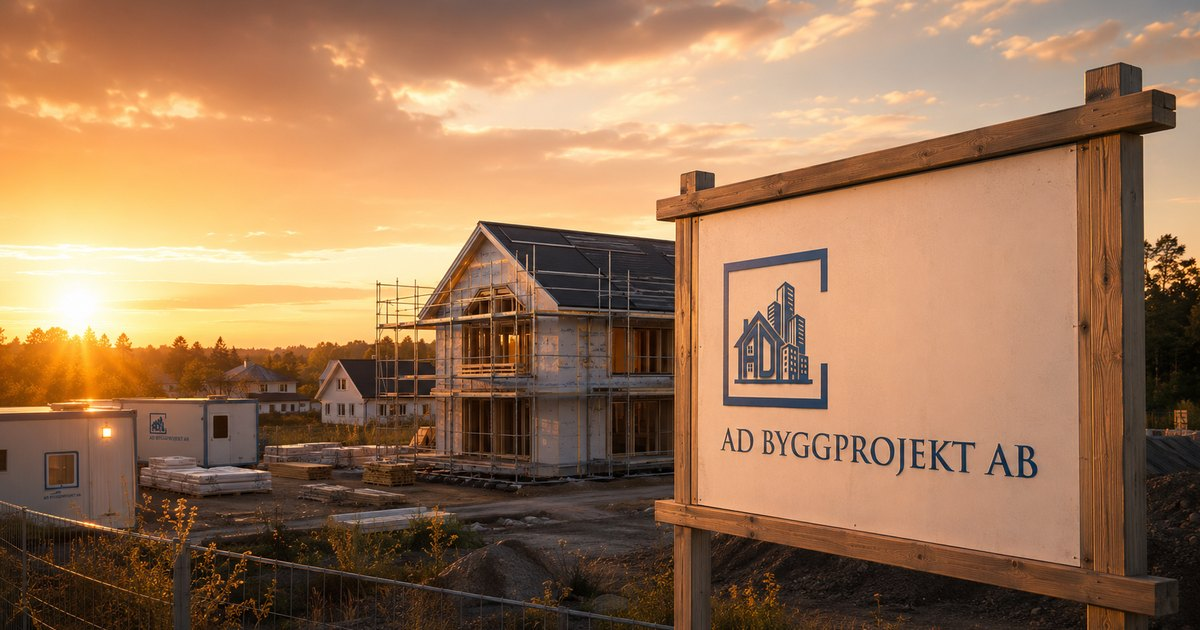
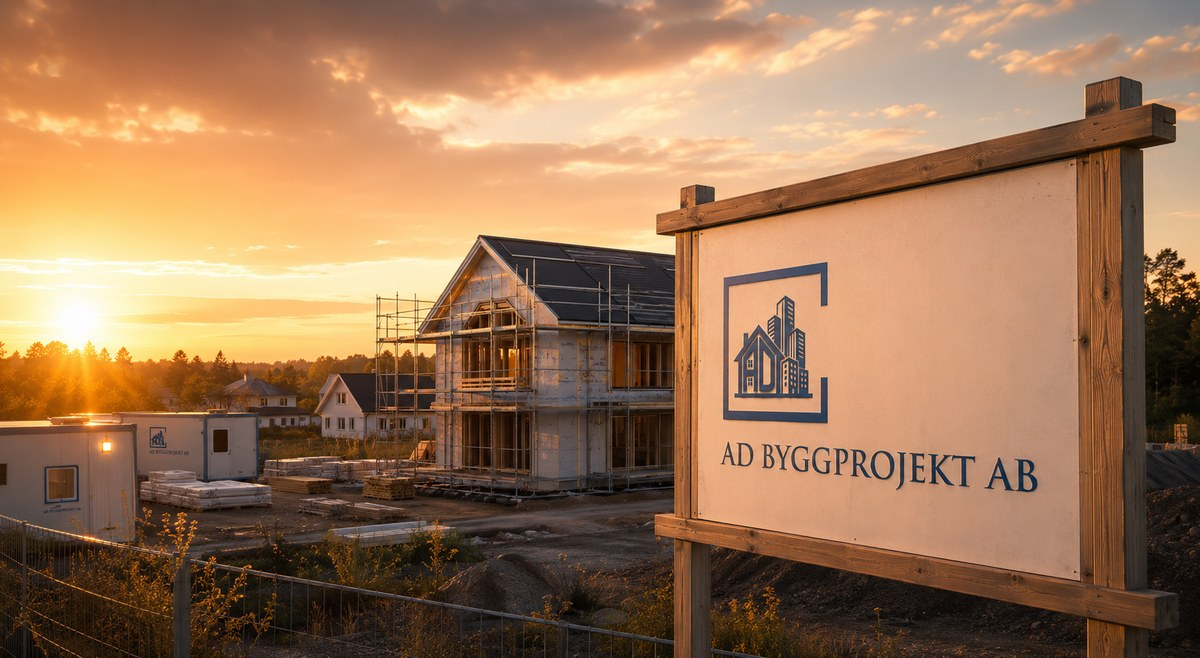
Mobil-fix knappar spiller inte over kanten

diff --git a/src/styles/global.css b/src/styles/global.css
@@ -203,6 +203,22 @@ h3, h4, h5, h6 {
   transform: translateY(-2px);
 }
 
+/* === Mobil-fix: knappar ska aldrig spilla över skärmkanten === */
+@media (max-width: 600px) {
+  .btn-primary,
+  .btn-outline,
+  .btn-outline-light,
+  .btn-ghost {
+    min-width: 0;
+    max-width: 100%;
+    white-space: normal;
+    box-sizing: border-box;
+    padding-left: 1.5rem;
+    padding-right: 1.5rem;
+    text-align: center;
+  }
+}
+
 .btn-outline-light {
   display: inline-flex;
   align-items: center;
@@ -1031,6 +1047,30 @@ h3, h4, h5, h6 {
 
 .white-info-card {
   background: #ffffff;
+}
+
+/* === Mobil-fix: hindra att kontaktsektionen/formuläret pushar bredden === */
+.contact-card,
+.form-container,
+.form-group,
+.form-row,
+.form-input {
+  min-width: 0;
+}
+
+.info-card {
+  min-width: 0;
+}
+
+.info-card > div {
+  flex: 1;
+  min-width: 0;
+}
+
+.info-card .info-value,
+.info-card .info-label {
+  overflow-wrap: anywhere;
+  word-break: break-word;
 }
 
 .form-container {

diff --git a/src/components/pages/CVPage.jsx b/src/components/pages/CVPage.jsx
@@ -179,11 +179,11 @@ export default function CVPage() {
             transition={{ duration: 0.8, delay: 0.3 }}
             style={{ display: 'flex', flexWrap: 'wrap', gap: '1rem', justifyContent: 'center' }}
           >
-            <a href={import.meta.env.BASE_URL + 'kontakt'} className="btn-primary" style={{ padding: '1rem 2.5rem', fontSize: '1rem' }}>
+            <a href={import.meta.env.BASE_URL + 'kontakt'} className="btn-primary" style={{ padding: '1rem clamp(1.25rem, 5vw, 2.5rem)', fontSize: '1rem', maxWidth: '100%', boxSizing: 'border-box' }}>
               Kontakta mig
               <ArrowRight size={18} />
             </a>
-            <a href={import.meta.env.BASE_URL + 'cv-andreas-dahlgren.pdf'} download className="btn-outline" style={{ padding: '1rem 2.5rem', fontSize: '1rem' }}>
+            <a href={import.meta.env.BASE_URL + 'cv-andreas-dahlgren.pdf'} download className="btn-outline" style={{ padding: '1rem clamp(1.25rem, 5vw, 2.5rem)', fontSize: '1rem', maxWidth: '100%', boxSizing: 'border-box' }}>
               <Download size={18} />
               Ladda ner CV
             </a>
@@ -438,7 +438,7 @@ export default function CVPage() {
             <p style={{ color: '#94a3b8', fontSize: '1.125rem', maxWidth: '28rem', margin: '0 auto 2rem', lineHeight: 1.7 }}>
               Hör av dig så berättar jag mer om min bakgrund och hur jag kan hjälpa dig med ditt projekt.
             </p>
-            <a href={import.meta.env.BASE_URL + 'kontakt'} className="btn-primary" style={{ padding: '1.125rem 3rem', fontSize: '1.0625rem' }}>
+            <a href={import.meta.env.BASE_URL + 'kontakt'} className="btn-primary" style={{ padding: '1.125rem clamp(1.5rem, 6vw, 3rem)', fontSize: '1.0625rem', maxWidth: '100%', boxSizing: 'border-box' }}>
               Kontakta AD Byggprojekt
               <ArrowRight size={20} />
             </a>